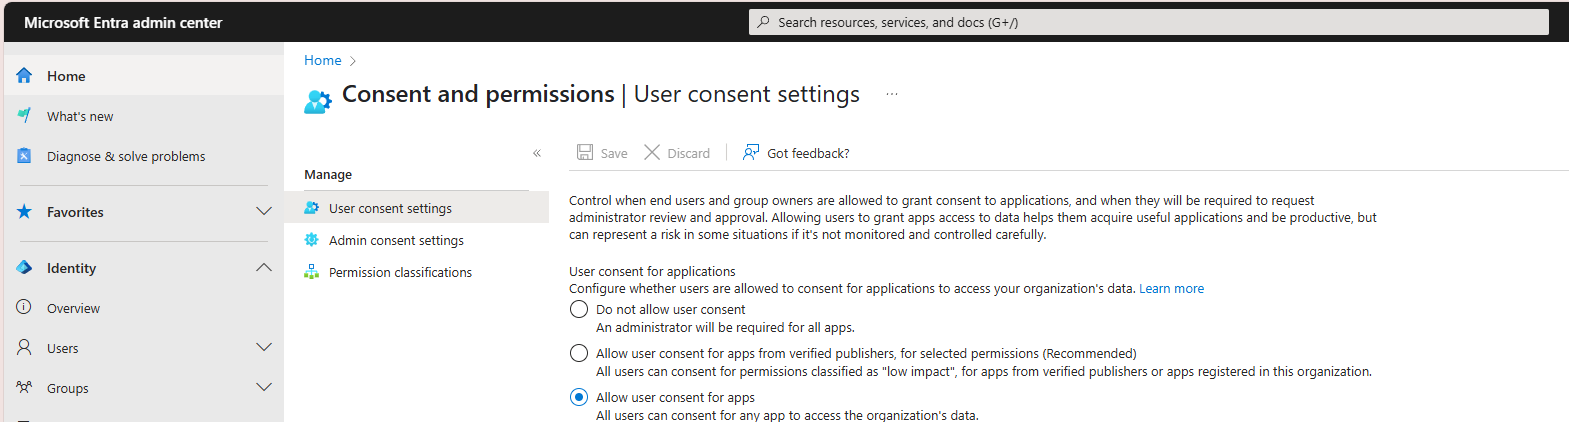
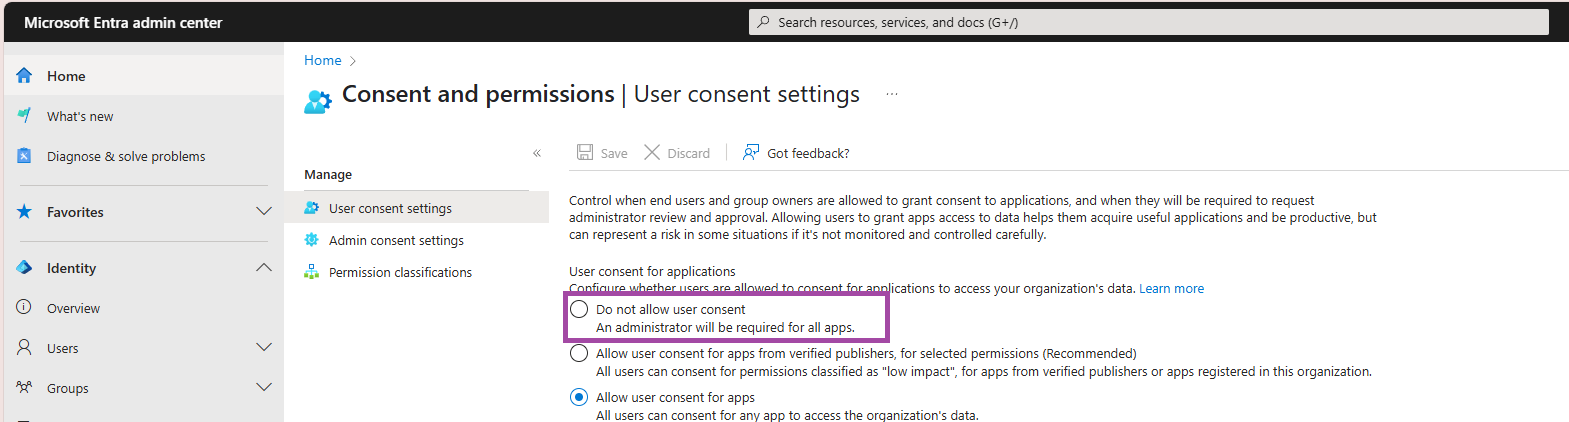
Add security risk

Changed region(s): [[0.3435, 0.6777, 0.5621, 0.8318], [0.5621, 0.7085, 0.5934, 0.8009]]

diff --git a/README.md b/README.md
@@ -41,12 +41,21 @@ In the Fabric Tenant Admin Settings, make sure that you have enabled the access 
 ![spn](./images/settings_spn.png)
 
 
-### Settings in Entra Admin Center
+### A Note About "User Consent Settings" in Microsoft Entra Admin Center
 
-1. In the [Entra Admin Center](https://entra.microsoft.com/#view/Microsoft_AAD_IAM/ConsentPoliciesMenuBlade/~/UserSettings)
-, sign in as a Privileged Role Administrator. 
-2. Browse for "User Consent Settings" in the Search Bar. 
-3. Select "Allow user consent for apps".  
+You may come across official [Microsoft documentation](https://learn.microsoft.com/en-us/fabric/data-factory/apache-airflow-jobs-run-fabric-item-job) suggesting that you need to enable the following setting:
+
+**Allow user consent for apps**
+
+This option is found under User consent settings and requires Privileged Role Administrator permissions to configure.
+
+However, **this is not required** to run Apache Airflow jobs in Microsoft Fabric.
+It works **perfectly fine without changing this setting.**
+
+In fact, from a security standpoint, it is **strongly recommended** to **leave this setting at “Do not allow user consent”** unless there is a compelling and controlled use case.
+
+Keep **"Do not allow user consent"** selected to maintain a secure tenant configuration.
+Only adjust this if absolutely necessary and with full understanding of the risks.
 
 ![consent](./images/azure_consent.png)
 
